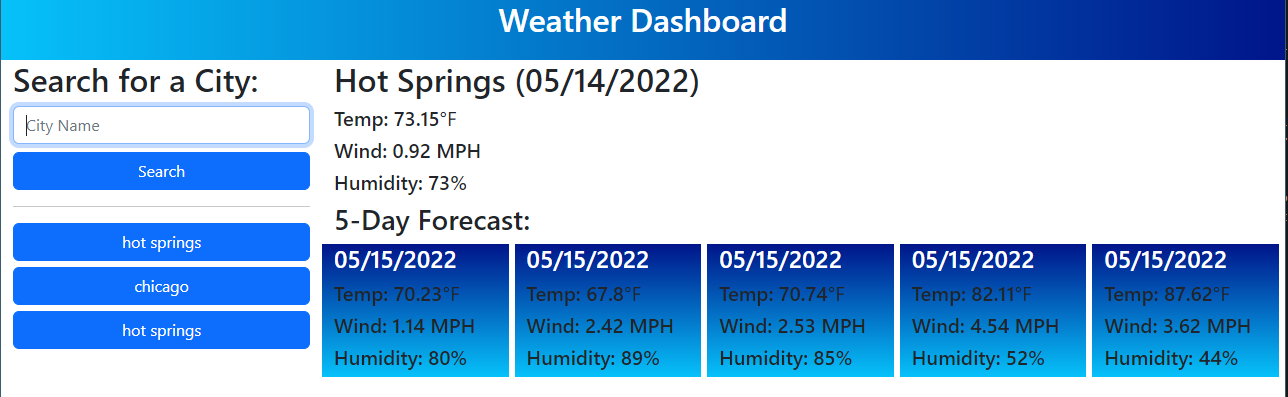
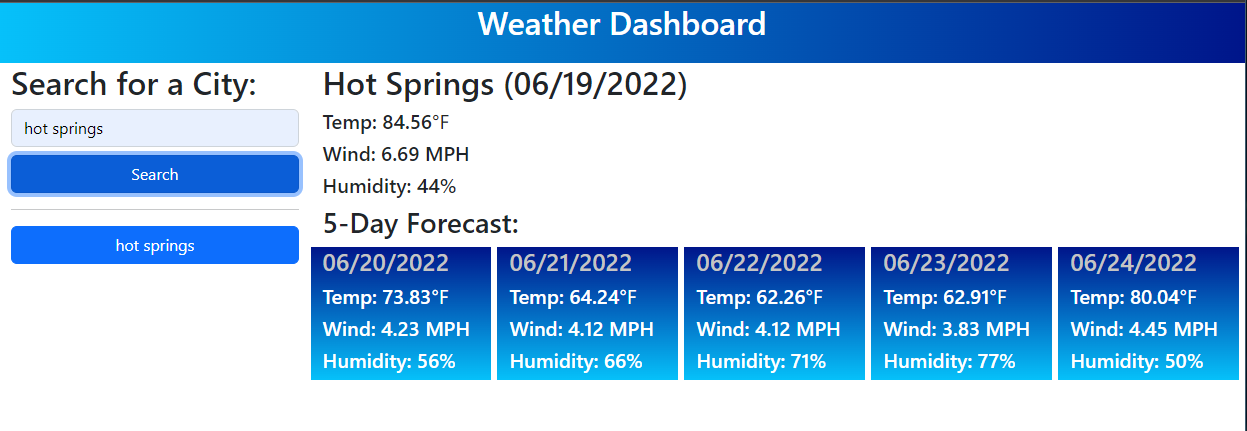
fixed 5 day forcast showing same date

diff --git a/assets/js/script.js b/assets/js/script.js
@@ -81,10 +81,10 @@ function printResults(city, temp, temp1, temp2, temp3, temp4, temp5, wind, wind1
     var forecastText = document.getElementById("forecastText");
     var now = moment().format("MM/DD/YYYY");
     var day1 = moment(now).add(1, "days").format("MM/DD/YYYY");
-    var day2 = moment(now).add(1, "days").format("MM/DD/YYYY");
-    var day3 = moment(now).add(1, "days").format("MM/DD/YYYY");
-    var day4 = moment(now).add(1, "days").format("MM/DD/YYYY");
-    var day5 = moment(now).add(1, "days").format("MM/DD/YYYY");
+    var day2 = moment(now).add(2, "days").format("MM/DD/YYYY");
+    var day3 = moment(now).add(3, "days").format("MM/DD/YYYY");
+    var day4 = moment(now).add(4, "days").format("MM/DD/YYYY");
+    var day5 = moment(now).add(5, "days").format("MM/DD/YYYY");
 
     forecastText.textContent = "5-Day Forecast: ";
     forecastText.style.display = "block";

diff --git a/assets/css/style.css b/assets/css/style.css
@@ -35,6 +35,10 @@ h1 {
 }
 
 .white {
+    color: rgb(196, 196, 196);
+}
+
+.fiveDay h5 {
     color: white;
 }
 
